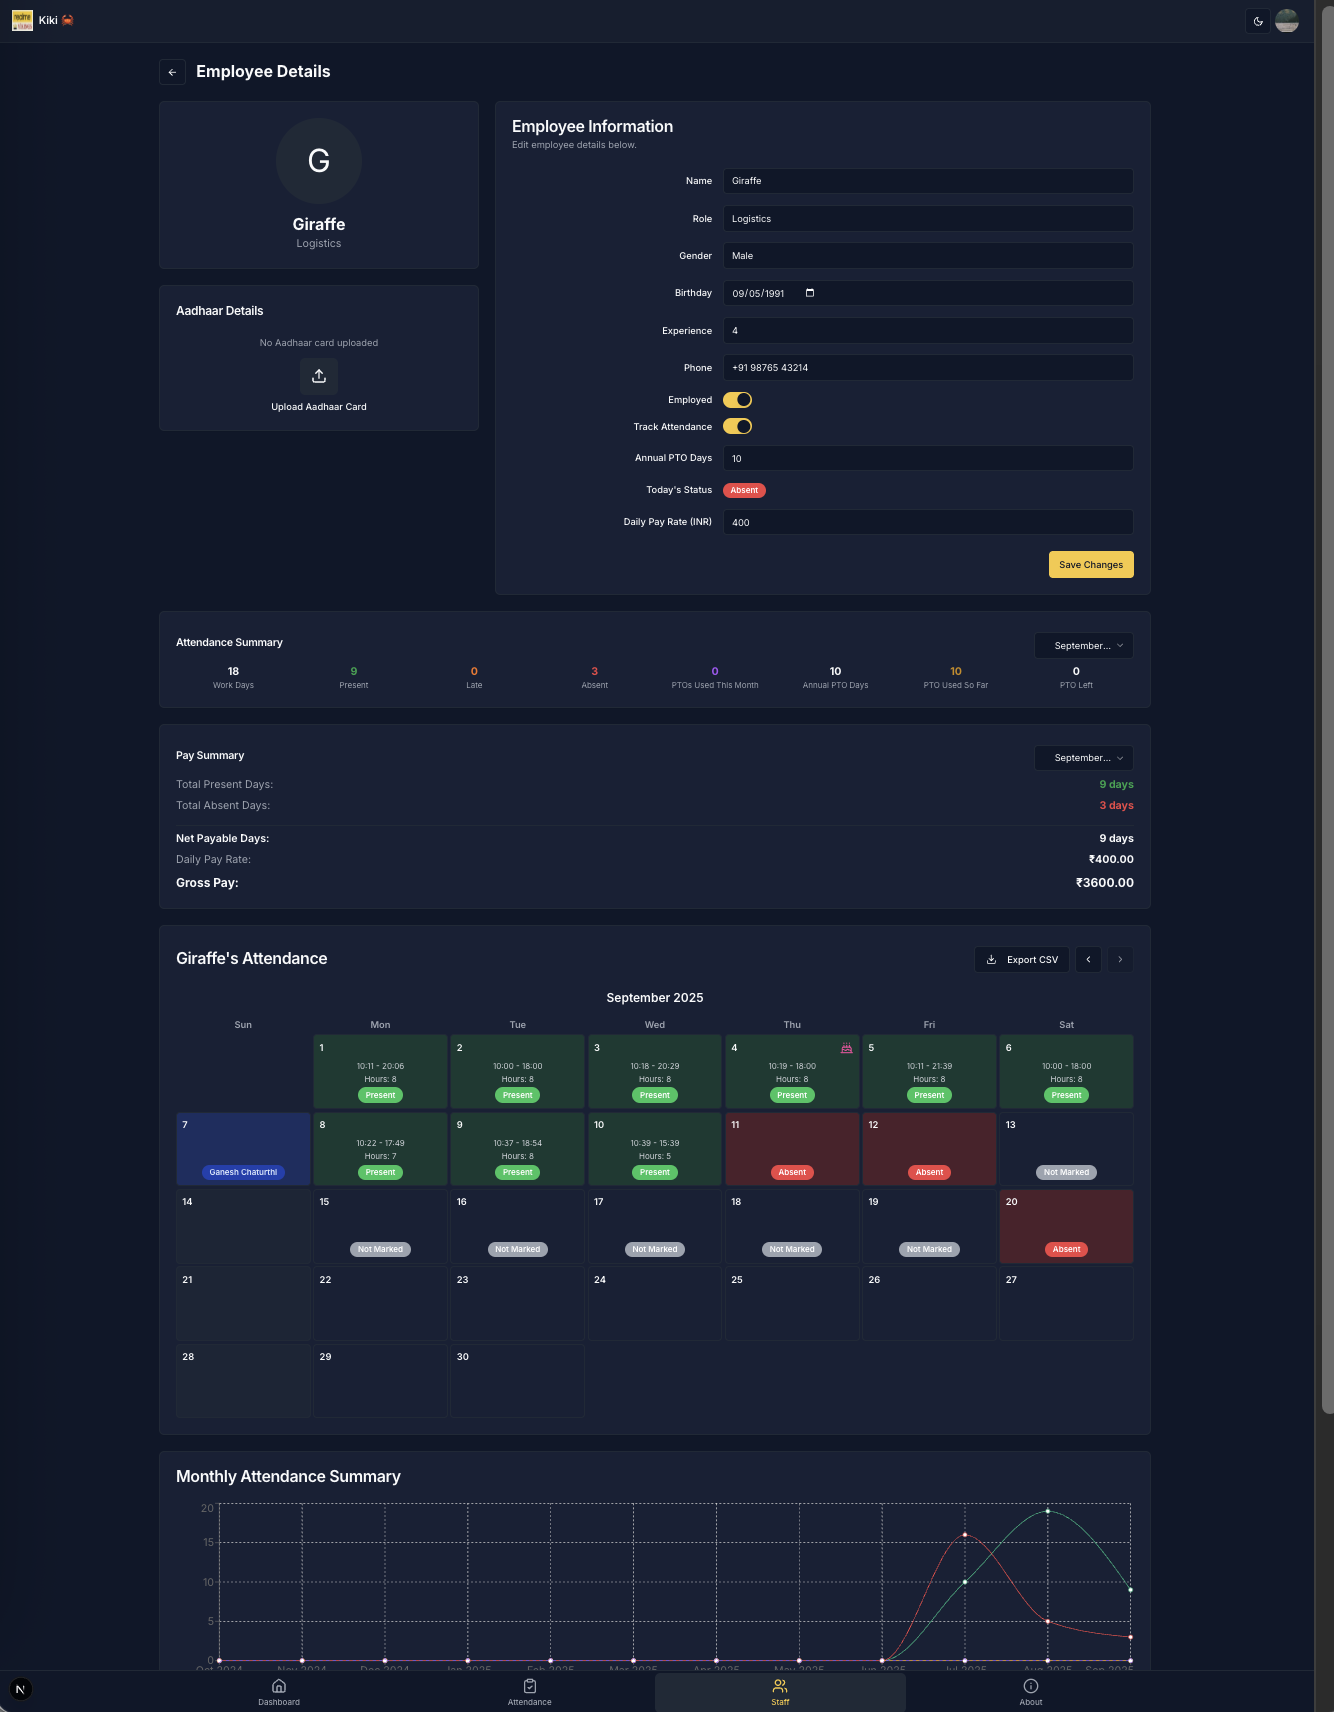
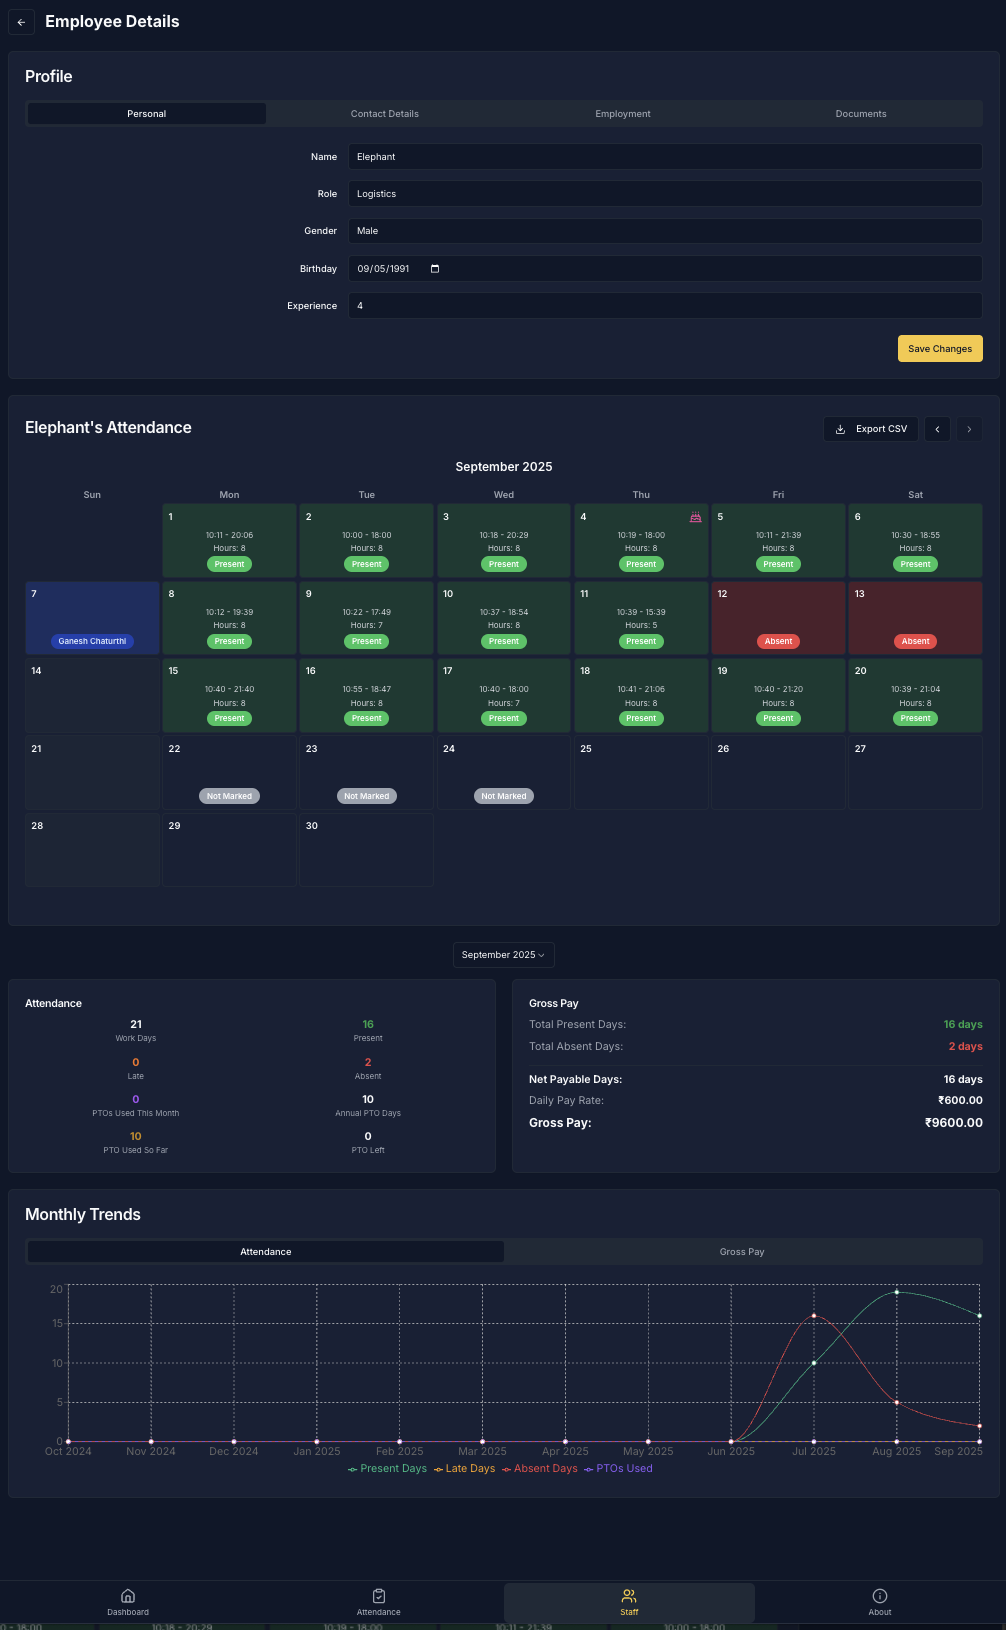
feat: staff page UI overhaul with profile pics and tabbed interface

diff --git a/src/app/dashboard/staff/page.tsx b/src/app/dashboard/staff/page.tsx
@@ -1035,7 +1035,7 @@ function StaffPageContent() {
               </CardHeader>
               <CardContent>
                 <h3 className="text-lg font-semibold text-center mb-4">{format(calendarMonth, 'MMMM yyyy')}</h3>
-                <div className="grid grid-cols-7 gap-1">
+                <div className="grid grid-cols-7 gap-1 max-h-[600px] overflow-hidden">
                   {weekDays.map(day => (
                     <div key={day} className="text-center font-semibold text-muted-foreground text-sm">{day}</div>
                   ))}
@@ -1086,14 +1086,16 @@ function StaffPageContent() {
                     )
                   })}
                 </div>
+                {/* Add spacing to prevent overlap with content below */}
+                <div className="h-8"></div>
               </CardContent>
             </Card>
 
-            {/* Attendance Summary */}
+            {/* Monthly Summary Cards */}
             {selectedEmployee.role !== 'Owner' && (
-              <Card>
-                <CardHeader className="pb-2 flex flex-row items-center justify-between">
-                  <CardTitle className="text-base">Attendance</CardTitle>
+              <div className="space-y-4">
+                {/* Month Selector */}
+                <div className="flex justify-center">
                   <Select
                     value={format(selectedMonth, 'yyyy-MM')}
                     onValueChange={(value: string) => {
@@ -1101,7 +1103,7 @@ function StaffPageContent() {
                       setSelectedMonth(new Date(year, month - 1, 1));
                     }}
                   >
-                    <SelectTrigger className="w-[150px]">
+                    <SelectTrigger className="w-[200px]">
                       <SelectValue>
                         {format(selectedMonth, 'MMMM yyyy')}
                       </SelectValue>
@@ -1118,12 +1120,19 @@ function StaffPageContent() {
                       }).reverse()}
                     </SelectContent>
                   </Select>
+                </div>
+                
+                <div className="grid grid-cols-1 lg:grid-cols-2 gap-6">
+                {/* Attendance Summary */}
+                <Card>
+                <CardHeader className="pb-2">
+                  <CardTitle className="text-base">Attendance</CardTitle>
                 </CardHeader>
                 <CardContent>
                   {!mtdSummary || !ytdSummary ? <div className="flex justify-center p-4"><Loader2 className="h-6 w-6 animate-spin text-primary" /></div> : (
                     <div className="space-y-4">
-                      <div>
-                        <div className="grid grid-cols-8 gap-2 text-center">
+                      <div className="max-w-4xl">
+                        <div className="grid grid-cols-2 gap-4 text-center">
                           <div><p className="font-bold">{mtdSummary.workDays}</p><p className="text-xs text-muted-foreground">Work Days</p></div>
                           <div><p className="font-bold text-green-600">{mtdSummary.present}</p><p className="text-xs text-muted-foreground">Present</p></div>
                           <div><p className="font-bold text-orange-500">{mtdSummary.lateDays}</p><p className="text-xs text-muted-foreground">Late</p></div>
@@ -1137,38 +1146,13 @@ function StaffPageContent() {
                     </div>
                   )}
                 </CardContent>
-              </Card>
-            )}
+                </Card>
 
-            {/* Payroll Summary */}
-            {selectedEmployee.role !== 'Owner' && isAdmin && paySummary && (
-              <Card>
-                <CardHeader className="pb-2 flex flex-row items-center justify-between">
+                {/* Payroll Summary */}
+                {isAdmin && paySummary && (
+                  <Card>
+                <CardHeader className="pb-2">
                   <CardTitle className="text-base">Gross Pay</CardTitle>
-                  <Select
-                    value={format(selectedMonth, 'yyyy-MM')}
-                    onValueChange={(value: string) => {
-                      const [year, month] = value.split('-').map(Number);
-                      setSelectedMonth(new Date(year, month - 1, 1));
-                    }}
-                  >
-                    <SelectTrigger className="w-[150px]">
-                      <SelectValue>
-                        {format(selectedMonth, 'MMMM yyyy')}
-                      </SelectValue>
-                    </SelectTrigger>
-                    <SelectContent>
-                      {Array.from({ length: today.getMonth() - 5 }, (_, i) => {
-                        // Start from July 2025 (month index 6)
-                        const date = new Date(2025, 6 + i, 1);
-                        return (
-                          <SelectItem key={i} value={format(date, 'yyyy-MM')}>
-                            {format(date, 'MMMM yyyy')}
-                          </SelectItem>
-                        );
-                      }).reverse()}
-                    </SelectContent>
-                  </Select>
                 </CardHeader>
                 <CardContent>
                   <div className="grid gap-2">
@@ -1206,7 +1190,10 @@ function StaffPageContent() {
                     </div>
                   </div>
                 </CardContent>
-              </Card>
+                  </Card>
+                )}
+                </div>
+              </div>
             )}
 
             {/* Monthly Statistics */}

diff --git a/README.md b/README.md
@@ -7,7 +7,7 @@ Welcome to **Kiki** 🦀, a modern and comprehensive workforce management system
 
 **Kiki** 🦀 stands out with its:
 - 💰 Sophisticated payroll management
-- 👥 Smart time tracking with automatic late detection
+- 👥 Smart time tracking
 - 📊 Comprehensive analytics and reporting
 - 🔄 Real-time data synchronization
 - 🎨 Clean, responsive interface
@@ -54,8 +54,16 @@ Perfect for organizations looking to:
 - Personal details with birthday tracking and celebrations
 - Experience and role management
 - Filterable staff directory (current, former, all employees) with sortable columns
+- **Profile pictures in employee table** with avatar fallbacks showing initials
 - Individual attendance history with calendar view
 - CSV export functionality for attendance records
+- **Tabbed employee profile interface** with organized sections:
+  - Personal details, Contact information, Employment details, Payroll info
+  - Document management with upload/delete functionality
+- **Document Management System**:
+  - Upload and manage profile pictures and Aadhaar cards
+  - Table-based document view with actions (upload, re-upload, delete)
+  - Real-time document preview and management
 
 #### 💰 **Comprehensive Payroll System**
 - Hourly Pay Rate management for eligible roles (TSE, Logistics, MIS)
@@ -85,6 +93,13 @@ Perfect for organizations looking to:
   - Month-to-Date (MTD) attendance patterns
   - Working days calculations
   - Holiday impact analysis
+- **Enhanced Employee Analytics**:
+  - **Side-by-side attendance and gross pay summaries** with responsive layouts
+  - **Unified month selector** controlling both attendance and payroll data
+  - **Two-column attendance metrics** for better readability
+  - **Interactive monthly trend charts** with tabbed interface:
+    - Attendance trends (Present, Late, Absent, PTO usage)
+    - Gross pay trends over time
 - Flexible reporting:
   - Period selection (MTD/YTD) for all reports
   - Export functionality for payroll and attendance data
@@ -99,11 +114,16 @@ Perfect for organizations looking to:
 - Role-based access control for Admin and Regular users
 
 ### 🎯 **User Experience**
-- Responsive design optimized for desktop and mobile
+- **Enhanced responsive design** optimized for desktop and mobile
+  - **Adaptive layouts** that adjust based on screen width
+  - **Responsive grids** preventing content overlap with legends
+  - **Mobile-first approach** with proper spacing and touch targets
 - Dark/light theme support
 - Smooth animations and transitions
 - Real-time data updates without page refreshes
 - Intuitive navigation with breadcrumbs
+- **Improved visual hierarchy** with tabbed interfaces and organized layouts
+- **Professional profile management** with avatar displays and document handling
 
 ### 🗄 **Data Persistence**
 - **[LowDB](https://github.com/typicode/lowdb)** - Lightweight JSON database for local data storage
